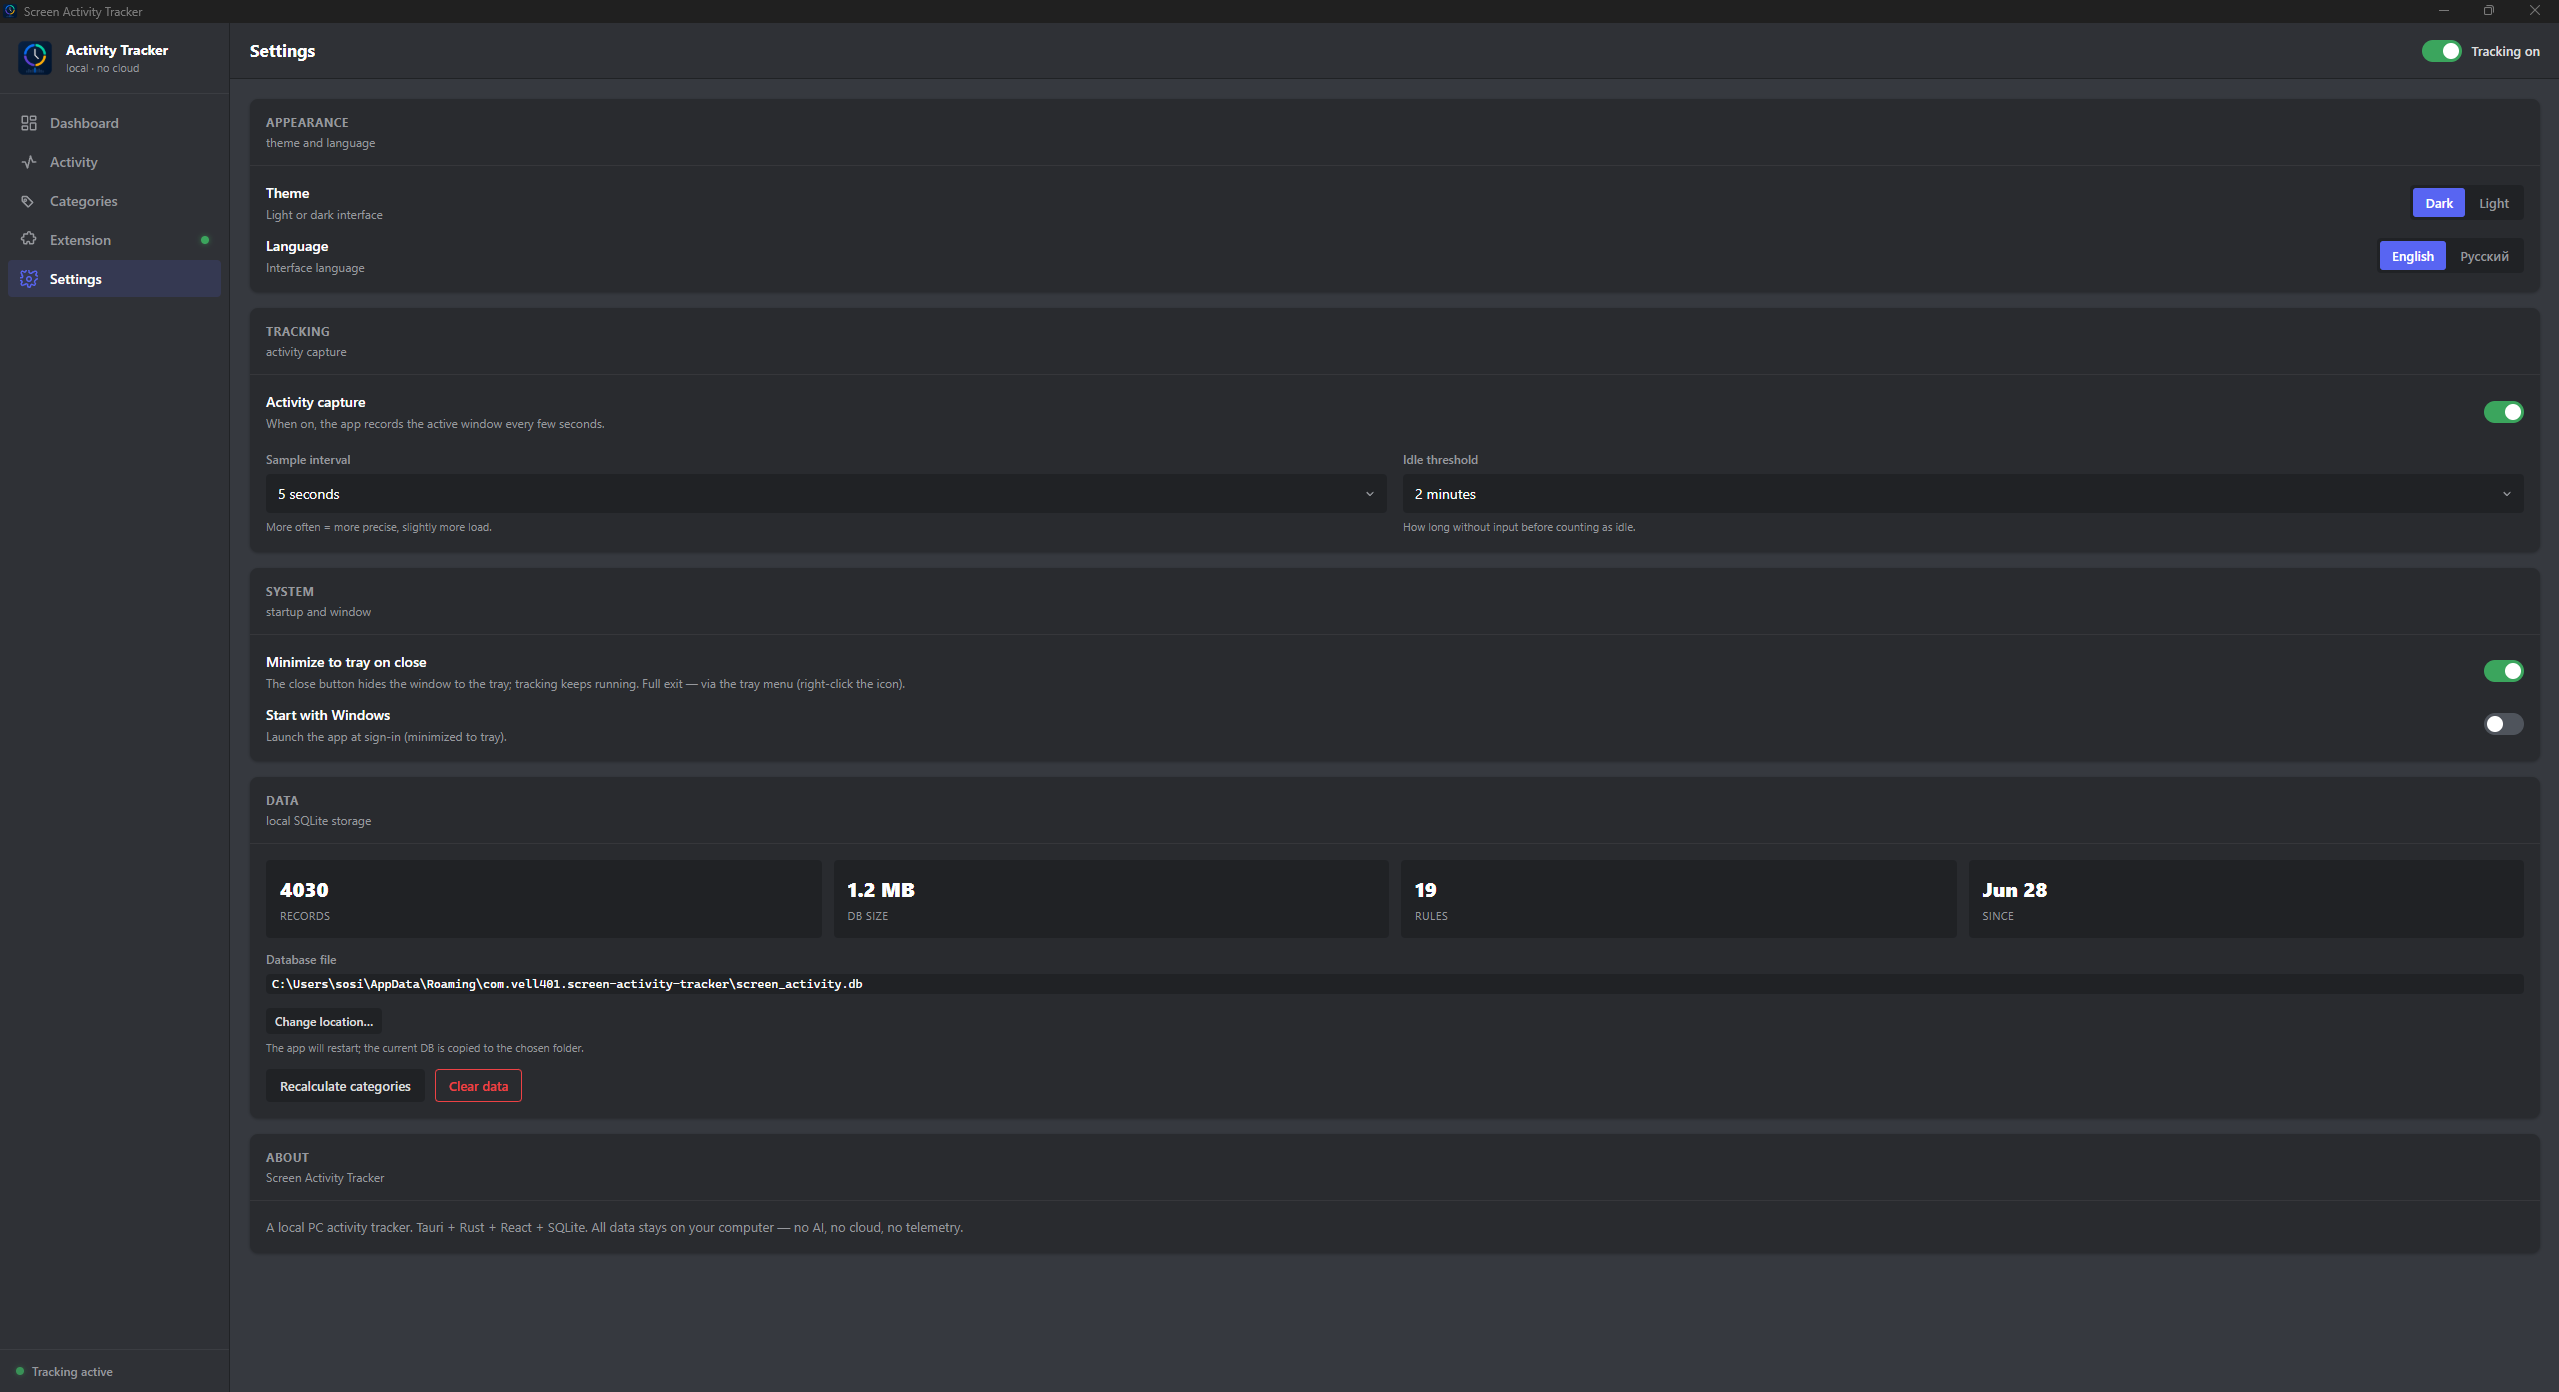
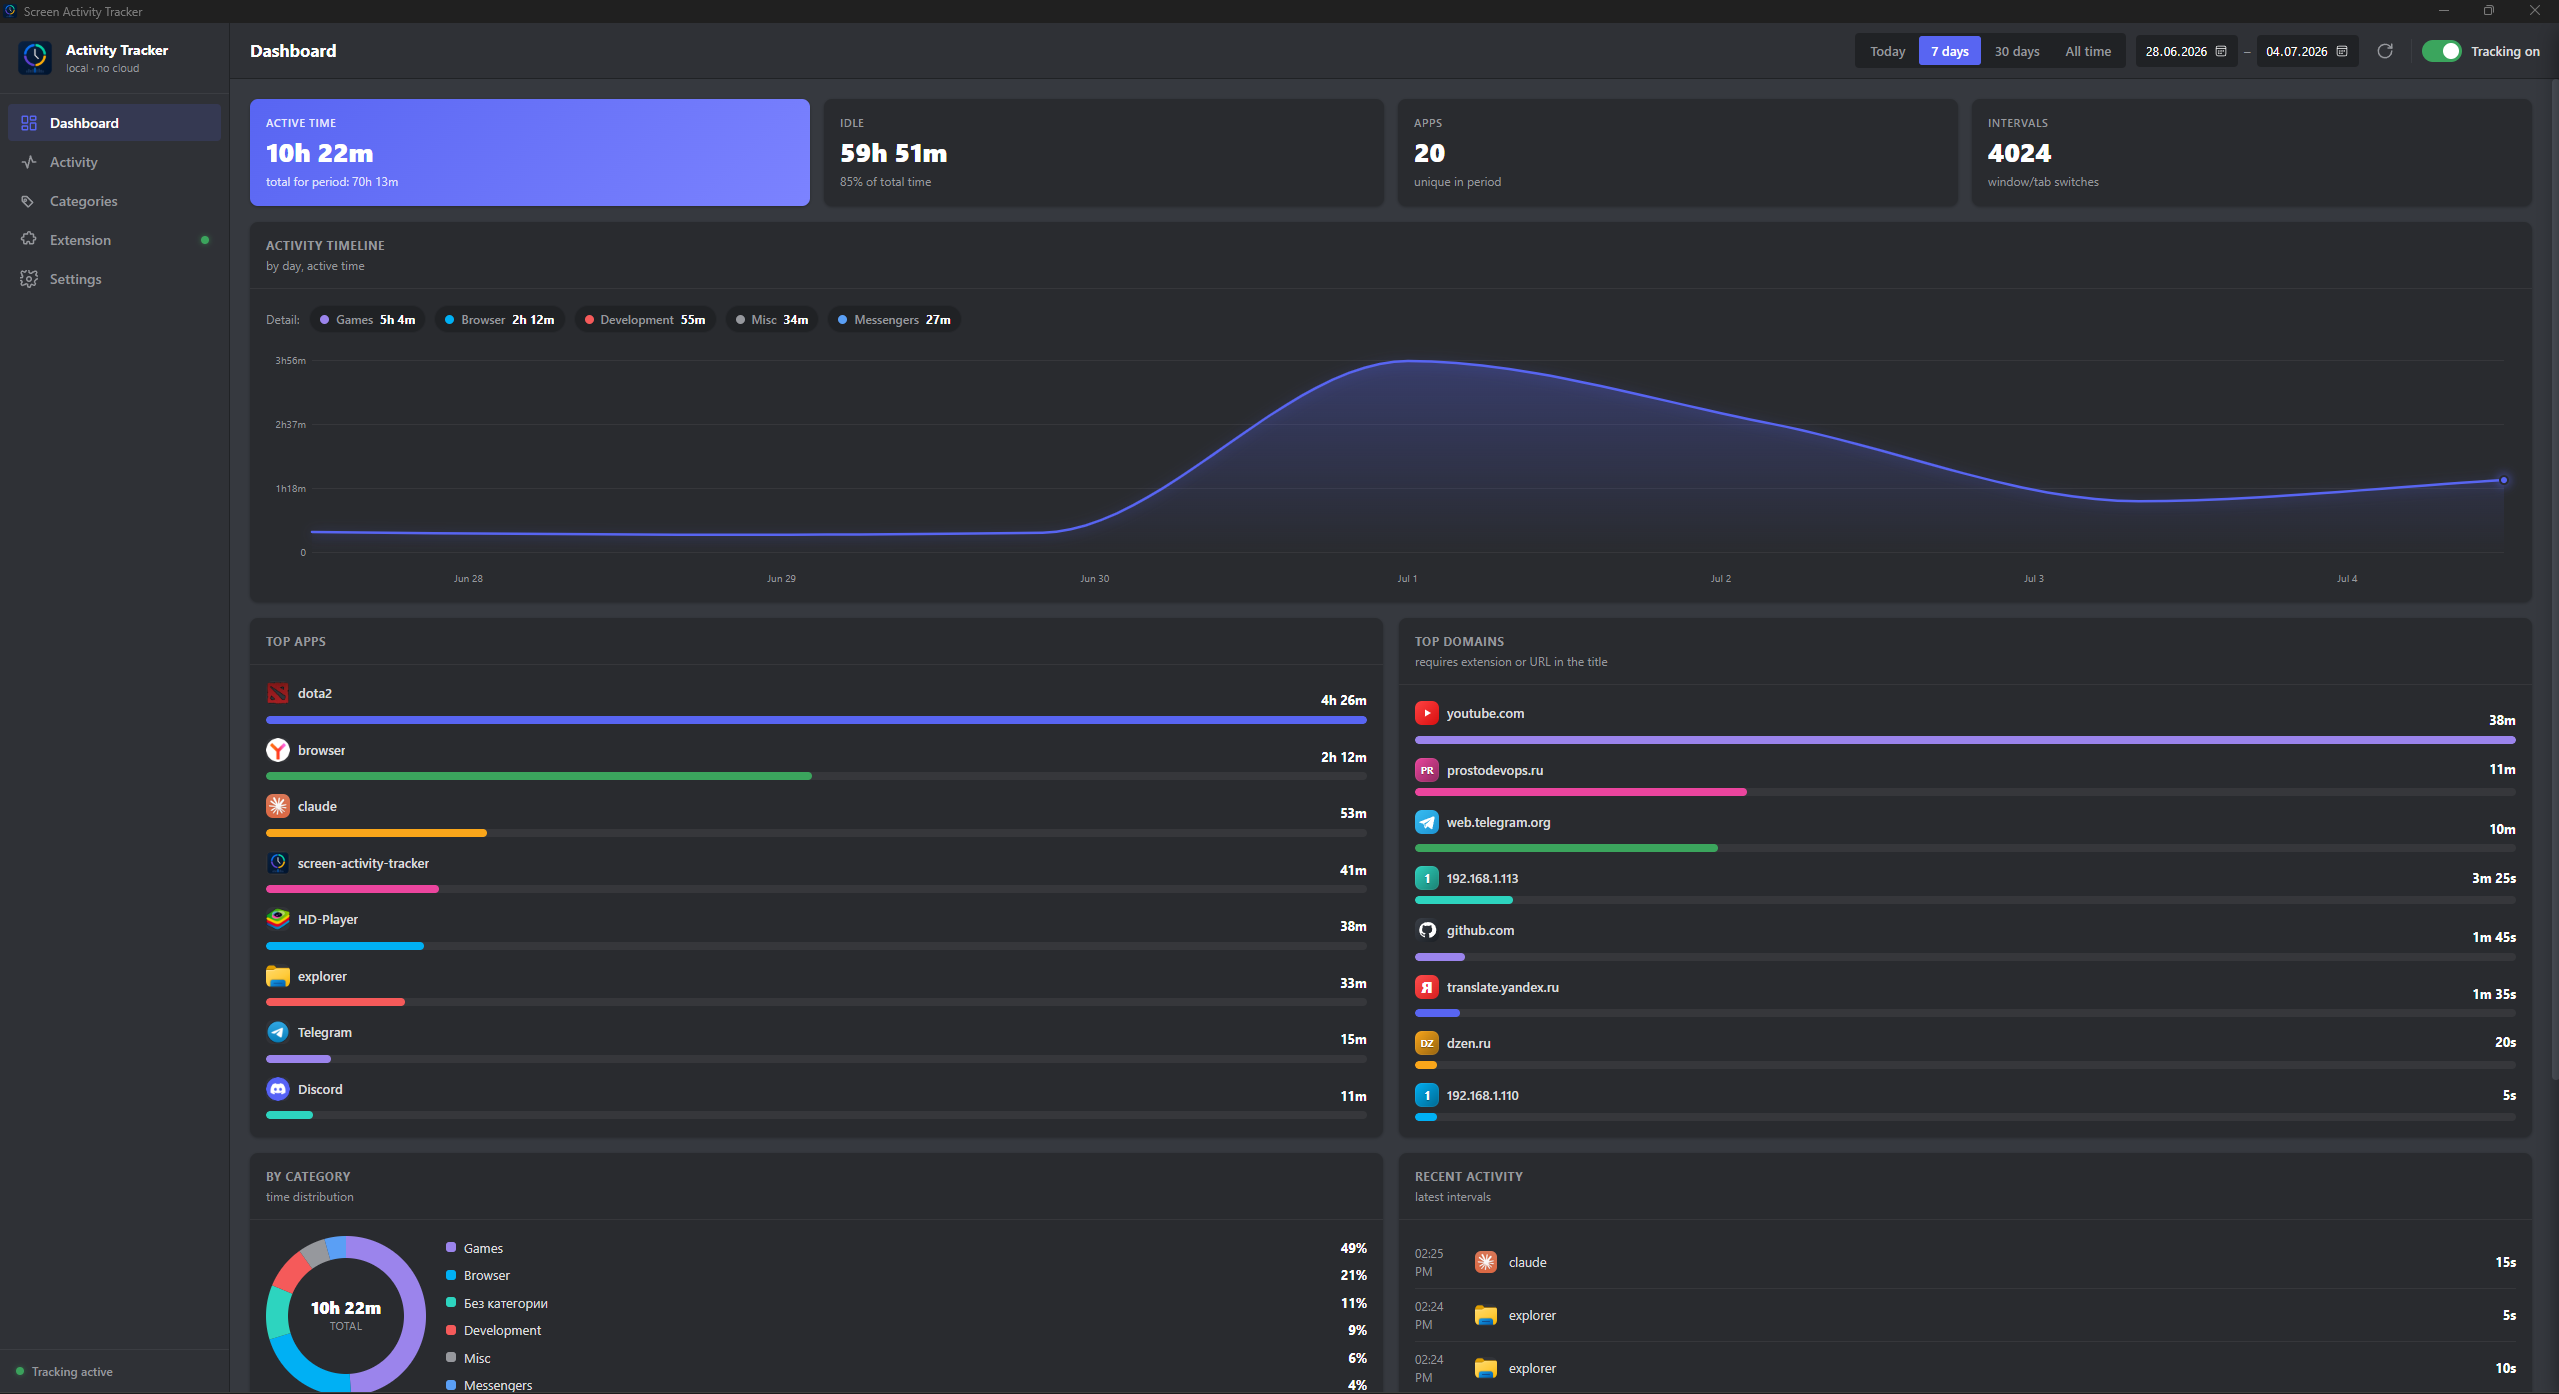
readme v.2

diff --git a/README.md b/README.md
@@ -24,11 +24,11 @@
 ## Превью
 
 <p align="center">
-  <img src="docs/screenshots/dashboard.png" width="49%" alt="Дашборд">
+  <img src="docs/screenshots/dashboard.png" width="100%" alt="Дашборд">
 </p>
 
 <p align="center">
- <img src="docs/screenshots/activity.png" width="49%" alt="Журнал активности">
+ <img src="docs/screenshots/activity.png" width="100%" alt="Журнал активности">
 </p>
 <!--
   Как добавить свои скриншоты:
